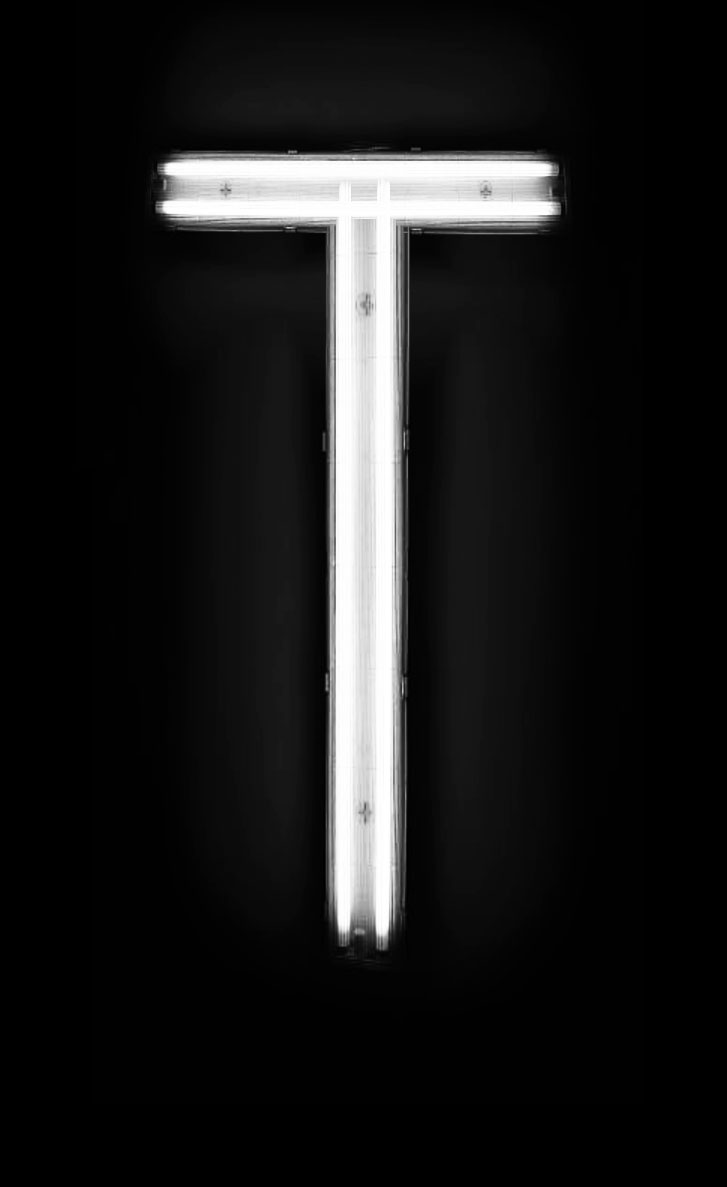
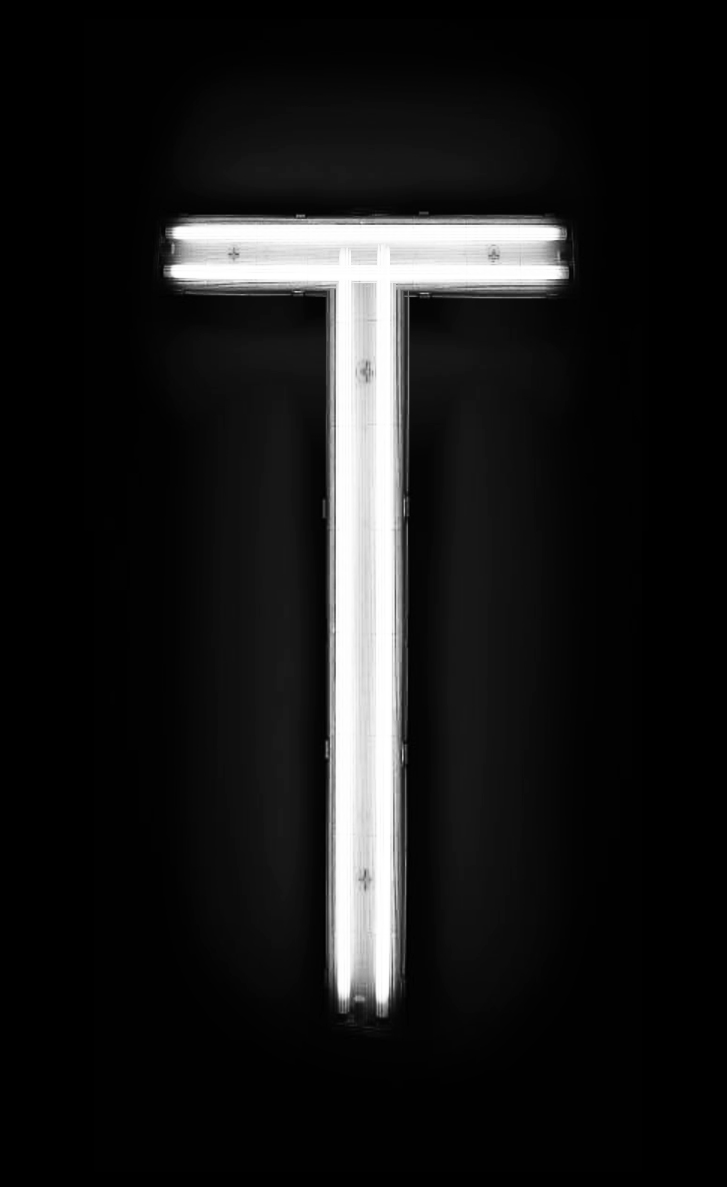
index fixed

diff --git a/assets/css/index.css b/assets/css/index.css
@@ -1,9 +1,10 @@
-/*! normalize.css v6.0.0 | MIT License | github.com/necolas/normalize.css */html{line-height:1.15;-ms-text-size-adjust:100%;-webkit-text-size-adjust:100%}article,aside,footer,header,nav,section{display:block}h1{font-size:2em;margin:.67em 0}figcaption,figure,main{display:block}figure{margin:1em 40px}hr{box-sizing:content-box;height:0;overflow:visible}pre{font-family:monospace,monospace;font-size:1em}a{background-color:transparent;-webkit-text-decoration-skip:objects}abbr[title]{border-bottom:none;text-decoration:underline;text-decoration:underline dotted}b,strong{font-weight:inherit}b,strong{font-weight:bolder}code,kbd,samp{font-family:monospace,monospace;font-size:1em}dfn{font-style:italic}mark{background-color:#ff0;color:#000}small{font-size:80%}sub,sup{font-size:75%;line-height:0;position:relative;vertical-align:baseline}sub{bottom:-.25em}sup{top:-.5em}audio,video{display:inline-block}audio:not([controls]){display:none;height:0}img{border-style:none}svg:not(:root){overflow:hidden}button,input,optgroup,select,textarea{margin:0}button,input{overflow:visible}button,select{text-transform:none}[type=reset],[type=submit],button,html [type=button]{-webkit-appearance:button}[type=button]::-moz-focus-inner,[type=reset]::-moz-focus-inner,[type=submit]::-moz-focus-inner,button::-moz-focus-inner{border-style:none;padding:0}[type=button]:-moz-focusring,[type=reset]:-moz-focusring,[type=submit]:-moz-focusring,button:-moz-focusring{outline:1px dotted ButtonText}legend{box-sizing:border-box;color:inherit;display:table;max-width:100%;padding:0;white-space:normal}progress{display:inline-block;vertical-align:baseline}textarea{overflow:auto}[type=checkbox],[type=radio]{box-sizing:border-box;padding:0}[type=number]::-webkit-inner-spin-button,[type=number]::-webkit-outer-spin-button{height:auto}[type=search]{-webkit-appearance:textfield;outline-offset:-2px}[type=search]::-webkit-search-cancel-button,[type=search]::-webkit-search-decoration{-webkit-appearance:none}::-webkit-file-upload-button{-webkit-appearance:button;font:inherit}details,menu{display:block}summary{display:list-item}canvas{display:inline-block}template{display:none}[hidden]{display:none}/*# sourceMappingURL=normalize.min.css.map */
 
 
 * { box-sizing: border-box;}
 
-a { text-decoration: inherit;}
+a { text-decoration: none;}
+
+
 
 /* Start here */
 
@@ -17,9 +18,8 @@ body{
 img {
   max-width: 50%;
   display: block;
-  margin: 0px;
+  margin: auto;
   cursor: help;
-  opacity: 1;
 }
 
 img:hover
@@ -29,27 +29,21 @@ img:hover
   animation-iteration-count: infinite;
 }
 
+
+
 @keyframes tube {
   0%  {  opacity: 0.2;}
   100% { opacity: 1.0;}
 }
 
-.container_is
-{
-  display: flex;
-  flex-wrap: wrap;
-  align-items: flex-start;
-  justify-content: center;
-  margin-left: 5vw;
-}
+
 
 .container
 {
   display: flex;
   flex-wrap: wrap;
-  align-items: flex-start;
-  justify-content: space-around;
-  margin-left: 5vw;
+  align-items: center;
+  justify-content: center;
 }
 
 
@@ -79,13 +73,36 @@ img:hover
 
 @media only screen and (max-width: 600px) {
 
+.tag{
+  display: none;
+}
+
+img {
+  max-width: 100%;
+  display: block;
+  margin: auto;
+
+}
+
+.container
+{
+  display: flex;
+  flex-wrap: wrap;
+  align-items: center;
+  justify-content: center;
+}
 
 
+.col1of4
+{
+  flex:0 0 100%;
+}
 
 
-
-
-
+.col1of5
+{
+  flex:0 0 30%;
+}
 
 
 }

diff --git a/index.html b/index.html
@@ -26,7 +26,9 @@
 
   <div class="col1of4">
     <div class="content">
-       <a href="exercise/exercise1.html"><img src="assets/img/1t.jpg" alt=""></a>
+      <a href="exercise/exercise1.html">
+        <img src="assets/img/1t.jpg" alt="">
+      </a>
     </div>
   </div>
 
@@ -51,20 +53,23 @@
 </div>
 
 
-<div class="container_is">
+<div class="container">
 
   <div class="col1of5">
     <div class="content">
-      <a href="15_variations/15index.html"><img src="assets/img/3i.jpg" alt="" ></a>
+      <a href="15_variations/15index.html">
+        <img src="assets/img/3i.jpg" alt="" >
+      </a>
     </div>
   </div>
 
   <div class="col1of5">
     <div class="content">
-      <a href="15_variations/15index.html"><img src="assets/img/4s.jpg" alt="" ></a>
+      <a href="15_variations/15index.html">
+        <img src="assets/img/4s.jpg" alt="" >
+      </a>
     </div>
   </div>
-
 
 </div>
 
@@ -120,7 +125,7 @@
 
 
 
-  <audio autoplay src="assets/sound/lookingforlove.mp3">
+  <audio autopla y src="assets/sound/lookingforlove.mp3">
 
 </audio>
 

diff --git a/exercise/assets/css/ex8.css b/exercise/assets/css/ex8.css
@@ -70,13 +70,6 @@ img:hover {
 
 
 
-.container_base {
-  display: flex;
-  flex-wrap: wrap;
-  align-items: center;                /* REVIEW: align top center bottom */
-  justify-content: space-around;      /* REVIEW: space about left and right */
-  margin: 20px;
-}
 
 
 .container_top {
@@ -88,6 +81,13 @@ img:hover {
 }
 
 
+.container_base {
+  display: flex;
+  flex-wrap: wrap;
+  align-items: center;;                /* REVIEW: align top center bottom */
+  justify-content: space-around;      /* REVIEW: space about left and right */
+  margin: 20px;
+}
 
 
 .col1of3

diff --git a/README.md b/README.md
@@ -1,1 +1,3 @@
 # kunge22.github.io
+
+# very happy to have you here
